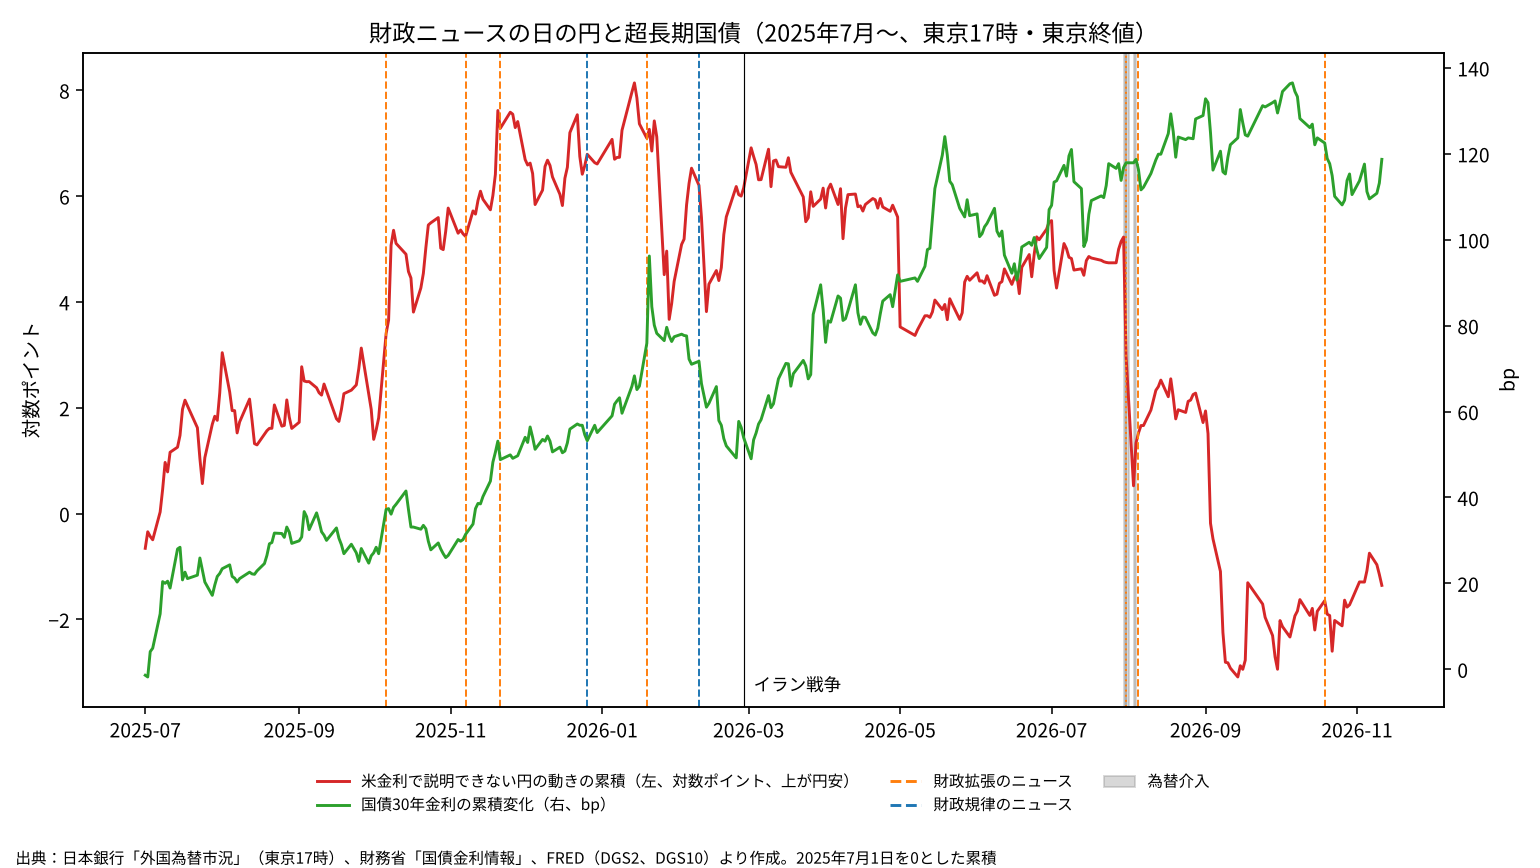
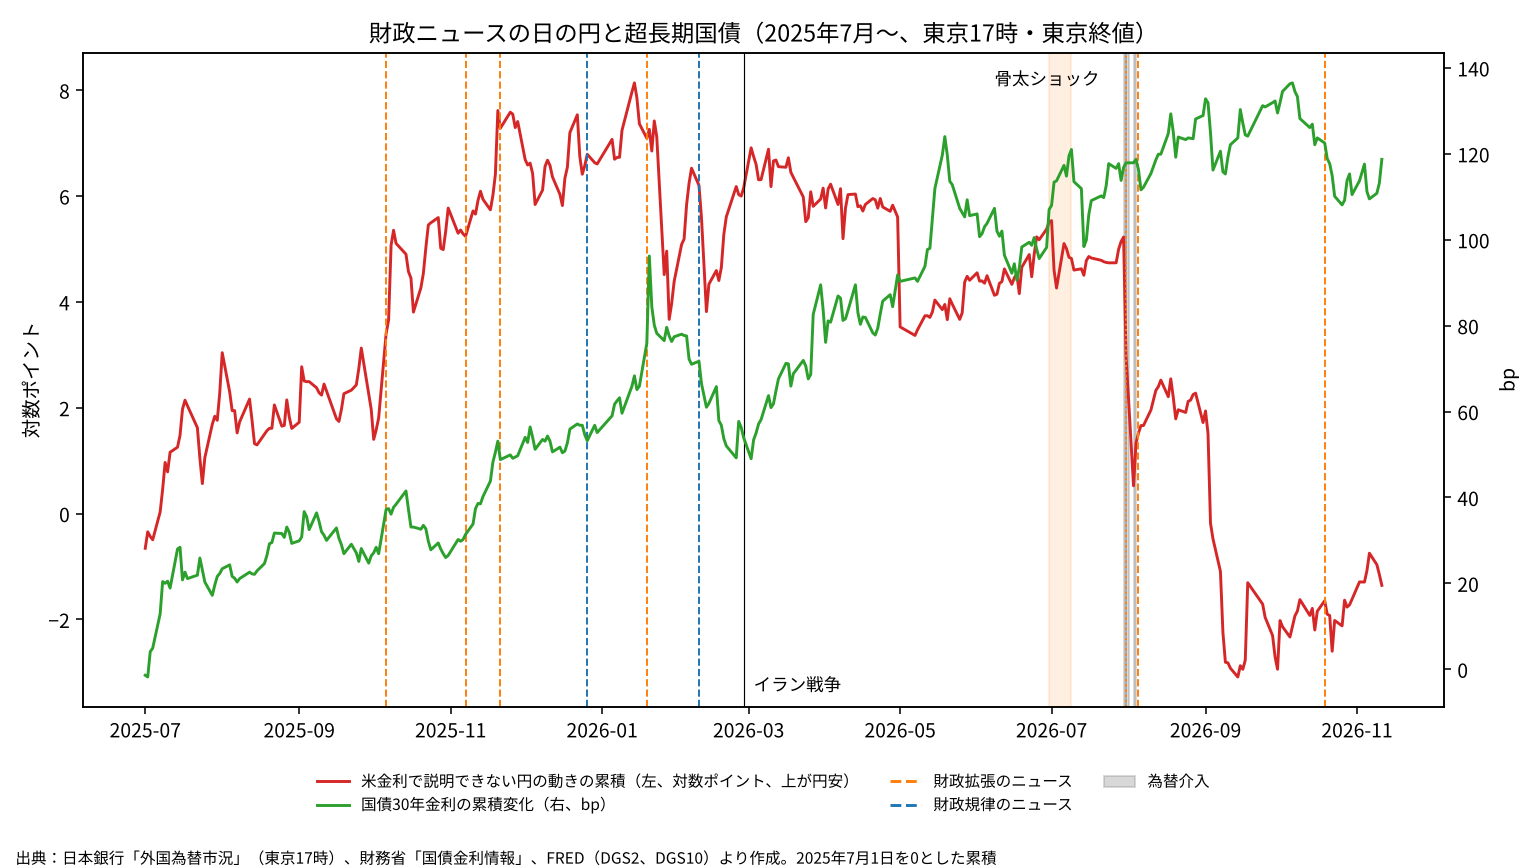
円安と財政リスク/01 骨太ショック（2026年6〜7月）を別枠で追加確認（表5b、図4に期間を表示）
Claude-Session: https://claude.ai/code/session_01XkmtR4jnzwE5K8Jiknne3y

Changed region(s): [[0.6545, 0.0622, 0.7169, 0.8088]]

diff --git a/円安と財政リスク/code/models.py b/円安と財政リスク/code/models.py
@@ -193,6 +193,20 @@ summ["10月6日を除く5件_30年金利の平均bp"] = ex.jp30.mean()
 summ["10月6日を除く5件_p_30年"] = placebo_k(j302, "2023-01-01", "2026-11-30", ex.jp30.mean(), len(ex))
 pd.Series(summ).round(3).to_csv("events_summary.csv", header=["value"])
 
+# 査読後に追加で確認したイベント（事前に決めた9件とは分けて扱う）：「骨太ショック」
+POST = [("骨太の方針2026の原案発表（6月30日）", "2026-06-30", "2026-07-01"),
+        ("原案発表の翌日から（7月1日〜2日）", "2026-07-01", "2026-07-02"),
+        ("骨太ショックの期間（6月30日〜7月9日）", "2026-06-30", "2026-07-09"),
+        ("片山財務相の発言（7月10日〜13日）", "2026-07-10", "2026-07-13"),
+        ("骨太の方針2026の閣議決定（7月21日〜22日）", "2026-07-21", "2026-07-22")]
+rows = []
+for label, a, z in POST:
+    w_ = dd.loc[a:z]
+    rows.append({"window": label, "start": a, "end": z, "days": len(w_), "fx_raw": w_.fx.sum(),
+                 "fx_abnormal": w_.ab.sum(), "z_2day_sd": w_.ab.sum() / sd2,
+                 "jp30": w_.jp30.sum() * 100, "jp10": w_.jp10.sum() * 100, "jp2": w_.jp2.sum() * 100})
+pd.DataFrame(rows).round(2).to_csv("events_posthoc.csv", index=False)
+
 # 日次の記述的な分類：30年金利の変化と異常変化の符号が同じ日・逆の日・どちらかが0の日
 dd["type"] = np.where(np.sign(dd.ab) == np.sign(dd.jp30), "同符号", "逆符号")
 dd.loc[(dd.ab == 0) | (dd.jp30 == 0) | dd.ab.isna(), "type"] = "その他"

diff --git a/円安と財政リスク/code/plots.py b/円安と財政リスク/code/plots.py
@@ -62,6 +62,8 @@ a2 = ax.twinx(); a2.plot(dd.index, dd.jp30.cumsum() * 100, color="tab:green", la
 for _, e in ev.iterrows():
     c = "tab:orange" if e.kind == "拡張" else "tab:blue"; ls = ":" if e.intervention else "--"
     ax.axvline(e.date, color=c, ls=ls, lw=1)
+ax.axvspan(pd.Timestamp("2026-06-30"), pd.Timestamp("2026-07-09"), color="tab:orange", alpha=.12)
+ax.text(pd.Timestamp("2026-06-08"), ax.get_ylim()[1] - .6, "骨太ショック", fontsize=9)
 for dday in pd.to_datetime(["2026-07-30", "2026-07-31", "2026-08-03"]):
     ax.axvspan(dday, dday + pd.Timedelta(days=1), color="gray", alpha=.3)
 ax.axvline(pd.Timestamp("2026-02-27"), color="k", lw=.6); ax.text(pd.Timestamp("2026-03-03"), ax.get_ylim()[0] + .3, "イラン戦争", fontsize=9)

diff --git a/円安と財政リスク/01_円安の最大の原因は財政リスクか.md b/円安と財政リスク/01_円安の最大の原因は財政リスクか.md
@@ -6,7 +6,7 @@ GitHub：[https://github.com/p72/note-draft/blob/main/円安と財政リスク/0
 
 ※ この記事は、財務省「国債金利情報」、日本銀行「国際収支統計」「外国為替市況」（時系列統計データ検索サイトAPI）、総務省「消費者物価指数」（e-Stat API）、FRED（セントルイス連銀）の公表データを使い、Python で推計・作図している。コードとデータは同じフォルダの `code/` にある。
 
-※ 2026年11月14日改訂：査読（Issue #39）を受けて、前年差の計算の誤り、デジタル関連収支と直接投資の定義を直し、数値と図を全面的に更新した。あわせて、財政ニュースのイベントスタディ（5節）と頑健性の検証（3節・4節）を加え、結論を改めた。同日、再査読を受けて、イベントスタディの日付の対応づけ（東京営業日と米国の金利の対応）の誤りを直し、5節と6節を更新した。
+※ 2026年11月14日改訂：査読（Issue #39）を受けて、前年差の計算の誤り、デジタル関連収支と直接投資の定義を直し、数値と図を全面的に更新した。あわせて、財政ニュースのイベントスタディ（5節）と頑健性の検証（3節・4節）を加え、結論を改めた。同日、再査読を受けて、イベントスタディの日付の対応づけ（東京営業日と米国の金利の対応）の誤りを直し、5節と6節を更新した。さらに、事前に決めたイベントに含めていなかった「骨太ショック」を、別枠で追加して確認した（5節の表5b）。
 
 ## はじめに
 
@@ -25,7 +25,7 @@ GitHub：[https://github.com/p72/note-draft/blob/main/円安と財政リスク/0
 - 物価調整後の2年金利差、カーブの傾き、デジタル関連収支、直接投資、原油価格による月次の分解では、2021年12月から2026年9月までの円安31.8対数ポイント（ドル円は37.4%上昇）のうち、カーブの傾きと関連する部分が21.3、物価調整後の金利差が6.9、デジタル関連収支が6.4、原油が3.0だった。この分解は定式化によって数ポイント単位で変わる。
 - 高市政権の発足からイラン戦争前まで（2025年9月→2026年2月）の円安4.8対数ポイントは、どの説明変数でもほとんど説明できない（残差5.6）。財政懸念はその候補の一つだが、残差は財政効果の推計値ではない。
 - 財政ニュースのイベントスタディでは、財政拡張のニュース6件（介入日と重なる1件を除く）の後2営業日に、米金利で説明できない円安は平均0.40対数ポイントだった。ランダムな日付と比べた片側p値は0.075で、10%水準でかろうじて有意である。ただしこれは総裁選翌日の1件によるもので、それを除く5件では平均0.12対数ポイント（p＝0.37）にとどまる。30年金利は6件の平均で4.9bp上がった（p＝0.02）。
-- 2026年1月の食料品消費税ゼロの報道では、30年金利が2営業日で30.3bp上がった（2営業日の変化の標準偏差の6.5倍）。一方、円の異常変化は−0.10対数ポイントで、ほとんど動かなかった。
+- 2026年1月の食料品消費税ゼロの報道では、30年金利が2営業日で30.3bp上がった（2営業日の変化の標準偏差の6.5倍）。一方、円の異常変化は−0.10対数ポイントで、ほとんど動かなかった。査読後に追加で確認した2026年6〜7月の「骨太ショック」でも、8営業日で10年・30年金利が約22bp上がる一方、円の異常変化は−0.55対数ポイントだった。
 - 米金利で説明できない円安は、政権発足直後の2025年10月に集中している（1か月で約3.8対数ポイント）。総裁選翌日の10月6日には、30年金利が上がる一方で2年金利は下がった。財政拡張の予想と、日銀の利上げが遅れるという予想が同時に動いた日であり、両者は分けられない。
 - 以上から、本稿の分析では、財政リスクが円安の最大の原因であることを示す根拠は得られなかった。選んだ財政ニュースの短期の窓では、総裁選翌日を除くと円安方向の反応を確認できない。ただし、これは財政リスクの影響が小さいことの証明ではない。件数が少なく検出力が低いこと、ニュースのうち予想外だった部分を測っていないことが残る。財政リスクの累積的な寄与や、他の要因との順位は判定していない。
 
@@ -182,6 +182,24 @@ GitHub：[https://github.com/p72/note-draft/blob/main/円安と財政リスク/0
 
 円安方向にはっきり反応したのは、総裁選翌日の2025年10月6日だけである（＋1.85対数ポイント、標準偏差の2.5倍）。この日は30年金利が10.5bp上がる一方で、2年金利は3.6bp下がった。財政拡張の予想とともに、日銀の利上げが遅れるという予想が強まったことを示している。この日の円安を財政だけに帰すことはできない。
 
+### 追加の確認：骨太ショック
+
+事前に決めた9件には、2026年6〜7月の「骨太ショック」を含めていなかった。骨太の方針2026の原案は6月30日に示され、日本銀行の利上げを牽制するようにも読める記述や、財源の不明確さから、国債が売られた。日本経済新聞などが「骨太ショック」と呼んだ局面である。査読後に気づいて追加で確認したものなので、結果を見てからイベントを選ぶことにならないよう、表5の集計には加えず、別に示す（表5b）。
+
+**表5b　骨太ショック前後の円と国債（東京営業日の累積、査読後に追加）**
+
+| 窓 | 営業日 | 異常変化（対数ポイント、＋が円安） | 30年金利（bp） | 10年金利（bp） | 2年金利（bp） |
+|---|---|---|---|---|---|
+| 原案の公表（6月30日〜7月1日） | 2 | ＋0.16 | ＋9.8 | ＋6.7 | −1.1 |
+| その翌日から（7月1日〜2日） | 2 | −0.92 | ＋6.4 | ＋8.8 | ＋1.3 |
+| 骨太ショックの期間（6月30日〜7月9日） | 8 | −0.55 | ＋22.8 | ＋22.2 | ＋3.3 |
+| 片山財務相の発言（7月10日〜13日） | 2 | −0.19 | −9.1 | −8.0 | ＋0.7 |
+| 閣議決定（7月21日〜22日） | 2 | −0.07 | ＋0.7 | ＋3.0 | ＋1.4 |
+
+（注）各窓の始点は前営業日の東京17時・東京終値。2営業日の異常変化の標準偏差は0.75対数ポイント。
+
+6月30日から7月9日までの8営業日で、10年金利と30年金利はともに約22bp上がった。一方、円の異常変化は−0.55対数ポイントで、米金利で説明できる分を除くと円安は起きていない。ドル円そのものはこの間に0.32対数ポイント円安になったが、それは米金利の上昇でほぼ説明できる。国債は大きく売られたのに、米金利で説明できない円安は出ていない。2026年1月の食料品消費税ゼロの報道と同じ形である。骨太ショックについても、日銀の利上げが遅れるとの観測を高めたことが円安圧力になったと指摘されている。総裁選翌日と同じく、財政と金融政策の見通しが混ざったニュースである。
+
 図4は、米金利で説明できない円の動きを2025年7月から累積したものである。累積は2025年10月の1か月で約3.8対数ポイント上がった。2025年10月〜2026年2月の説明できない円安（4.2対数ポイント）の大部分は、この1か月に生じている。一方、食料品消費税ゼロが争点になった2026年1〜2月には、累積はむしろ下がった（1月5日の7.1から2月27日の6.2）。なお、政権発足前の2025年7〜9月にも、累積は2.0対数ポイント上がっている。
 
 ![図4　財政ニュースの日の円と超長期国債](01_chart_event.png)
@@ -207,7 +225,7 @@ GitHub：[https://github.com/p72/note-draft/blob/main/円安と財政リスク/0
 
 - 2022年以降の円安は、超長期カーブの傾き、物価調整後の金利差、デジタル関連収支、原油価格と統計的に関連している。カーブの傾きは日銀の政策も反映しており、財政懸念だけを測る指標ではない。この分解は記述的なもので、定式化によって数ポイント単位で変わる。
 - 高市政権の発足からイラン戦争前までの円安は、これらの変数ではほとんど説明できない。
-- 選んだ財政ニュースの短期の窓では、30年金利は上がる傾向があった。円安方向の平均反応は10%水準でかろうじて有意だが、日銀の見通しも同時に変わった総裁選翌日の1件を除くと確認できない。2026年1月の食料品消費税ゼロの報道は、30年金利を大きく押し上げたが、円はほとんど動かなかった。
+- 選んだ財政ニュースの短期の窓では、30年金利は上がる傾向があった。円安方向の平均反応は10%水準でかろうじて有意だが、日銀の見通しも同時に変わった総裁選翌日の1件を除くと確認できない。2026年1月の食料品消費税ゼロの報道と、査読後に追加で確認した2026年6〜7月の骨太ショックは、超長期金利を大きく押し上げたが、米金利で説明できない円安は伴わなかった。
 
 したがって、本稿の分析では、「高市政権の財政リスクが円安の最大の原因である」ことを示す根拠は得られなかった。ただし、これはその命題を否定する証拠でもない。イベントは6件と少なく、検出力は低い。ニュースのうち市場にとって予想外だった部分も測っていない。2営業日の窓では、ゆっくりした評価の変化も捉えられない。財政リスクが円安に累積的にどれだけ寄与したか、他の要因と比べてどの順位にあるかは、本稿では判定していない。データとより整合するのは、政権発足直後の円安を、財政と金融政策の見通しが同時に変わったことへの反応と見る解釈である。
 
@@ -235,7 +253,7 @@ GitHub：[https://github.com/p72/note-draft/blob/main/円安と財政リスク/0
 - 原油：FRED の DCOILBRENTEU（ブレント、月平均）
 - 推計：最小二乗法。標準誤差は自己相関と不均一分散に頑健なもの（Newey-West）。週次の予測値（図1）は2022年1月〜2025年4月で推計し、推計期間の後に延ばした。前年差は暦月で計算し、1・4・7・10月を使った。共和分の臨界値は MacKinnon（2010）
 - イベントスタディ：異常変化＝ドル円（東京17時）の東京営業日ごとの変化−（2023年1月〜2025年9月に推計した、米2年・10年金利の変化による予測）。米金利は各東京営業日の前日（暦日）までの最新のニューヨーク終値。プラセボ比較は、介入日を区間に含まない2営業日の窓から6件（10月6日を除く場合は5件）を選ぶ操作を2万回
-- 推計結果：`code/regression_results.csv`（表1・表2と追加の推計、係数差の検定）、`code/unitroot.csv`（単位根・共和分）、`code/decomposition.csv`（図2・図3、表3・表4）、`code/events.csv`・`code/events_summary.csv`（表5）、`code/signclass.csv`（表6）
+- 推計結果：`code/regression_results.csv`（表1・表2と追加の推計、係数差の検定）、`code/unitroot.csv`（単位根・共和分）、`code/decomposition.csv`（図2・図3、表3・表4）、`code/events.csv`・`code/events_summary.csv`（表5）、`code/events_posthoc.csv`（表5b）、`code/signclass.csv`（表6）
 - コード：`code/`（データの取得は `fetch_data.py`、推計は `models.py`、作図は `plots.py`）。`fetch_data.py` は筆者が Claude に持たせているカスタムスキル（fred-data、mof-jgb、boj-api、estat-api）のモジュールを呼び出す。取得日は2026年11月14日。推計は pandas、NumPy、statsmodels、作図は matplotlib による
 
 ## 参考文献
@@ -251,6 +269,12 @@ GitHub：[https://github.com/p72/note-draft/blob/main/円安と財政リスク/0
   [https://www.nri.com/jp/media/column/kiuchi/20261021.html](https://www.nri.com/jp/media/column/kiuchi/20261021.html)
 - 木内登英（コラム）野村総合研究所、2026年1月19日
   [https://www.nri.com/jp/media/column/kiuchi/20260119\_4.html](https://www.nri.com/jp/media/column/kiuchi/20260119_4.html)
+- 木内登英「骨太ショックで長期金利上昇」野村総合研究所、2026年7月8日
+  [https://www.nri.com/jp/media/column/kiuchi/20260708.html](https://www.nri.com/jp/media/column/kiuchi/20260708.html)
+- 「『骨太ショック』で約40年ぶりの円安、片山財務大臣の“火消し”で一服も…」楽天証券 トウシル、2026年7月15日
+  [https://media.rakuten-sec.net/articles/-/52939](https://media.rakuten-sec.net/articles/-/52939)
+- ニューズウィーク日本版「骨太の方針」をめぐる論考
+  [https://www.newsweekjapan.jp/articles/-/327626](https://www.newsweekjapan.jp/articles/-/327626)
 - 野口悠紀雄「1ドル162円突破の『異常な円安』はなぜ止まらない?」東洋経済オンライン
   [https://toyokeizai.net/articles/-/950245](https://toyokeizai.net/articles/-/950245)
 - 「金利差からかい離＝財政規律への懸念が主因とされた円安」マネックス証券 マネクリ
